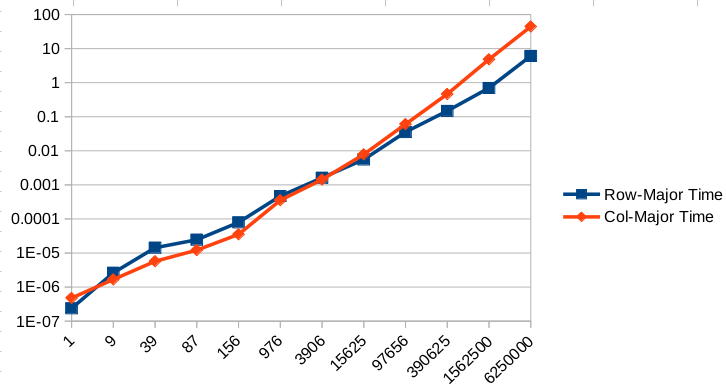
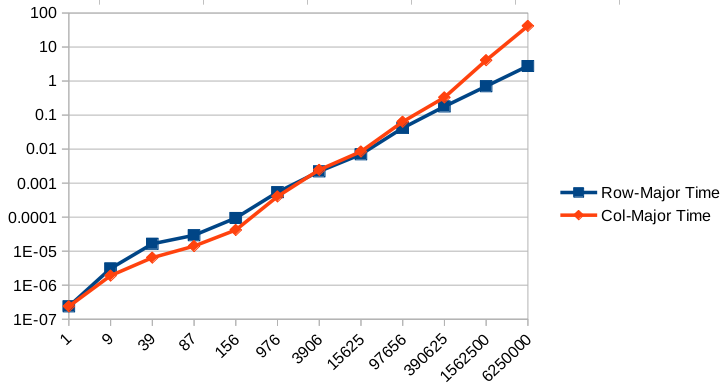
colMaj vs rowMaj

diff --git a/c/01_memory-and-cpu-cache/3_row-and-column-major-traversal/1st.c b/c/01_memory-and-cpu-cache/3_row-and-column-major-traversal/1st.c
@@ -39,7 +39,7 @@ int main() {
     }
     timespec_get(&ts, TIME_UTC);
     delta = ts.tv_sec + ts.tv_nsec / 1000.0 / 1000.0 / 1000.0 - t0;
-    printf("%0.9lf,\t%8u\n", delta, *(arr_ptr + ts.tv_sec % d * d + ts.tv_nsec % d));
+    printf("%12.9lf,\t%8u\n", delta, *(arr_ptr + ts.tv_sec % d * d + ts.tv_nsec % d));
     free(arr_ptr);
   }
   return 0;

diff --git a/c/01_memory-and-cpu-cache/3_row-and-column-major-traversal/README.md b/c/01_memory-and-cpu-cache/3_row-and-column-major-traversal/README.md
@@ -29,19 +29,19 @@ but it obfuscates our purpose of testing a two-dimensional array. Compilers may 
 
 ```
 Dim,	ArraySize(KB),	Row-Major Time,	RM Sample,	Col-Major Time,	CM Sample
-   10,	          0,	0.000000000,	      15,	0.000000238,	      32
-   20,	          1,	0.000000238,	      21,	0.000000477,	      26
-   50,	          9,	0.000002623,	      73,	0.000001669,	     144
-  100,	         39,	0.000014305,	      68,	0.000005722,	     188
-  150,	         87,	0.000024557,	     186,	0.000012159,	     442
-  200,	        156,	0.000079155,	     190,	0.000035286,	     186
-  500,	        976,	0.000470161,	     568,	0.000353813,	     418
- 1000,	       3906,	0.001616716,	    1103,	0.001428366,	     681
- 2000,	      15625,	0.005551815,	    1419,	0.007848501,	    1189
- 5000,	      97656,	0.035605431,	    6204,	0.060495377,	    3430
-10000,	     390625,	0.148145676,	    6290,	0.463856697,	   10920
-20000,	    1562500,	0.700424433,	   10111,	4.836644173,	    8593
-40000,	    6250000,	6.095543385,	    9024,	44.460029602,	   18816
+   10,	          0,	0.000000238,	      10,	 0.000000238,	       4
+   20,	          1,	0.000000238,	      12,	 0.000000238,	      26
+   50,	          9,	0.000003099,	      51,	 0.000001907,	      76
+  100,	         39,	0.000016451,	     142,	 0.000006437,	     102
+  150,	         87,	0.000029325,	     277,	 0.000014067,	     202
+  200,	        156,	0.000094414,	     158,	 0.000041962,	     233
+  500,	        976,	0.000541687,	     737,	 0.000405788,	     621
+ 1000,	       3906,	0.002210855,	    1733,	 0.002454519,	     944
+ 2000,	      15625,	0.007014275,	    1586,	 0.008472443,	    1876
+ 5000,	      97656,	0.041590452,	    2904,	 0.063577175,	    4090
+10000,	     390625,	0.178899527,	    3067,	 0.330257177,	   11269
+20000,	    1562500,	0.703771353,	   21851,	 4.094728708,	    9822
+40000,	    6250000,	2.775997877,	   19084,	41.708540440,	   16050
 ```
 
 <img src="./1st.png">
